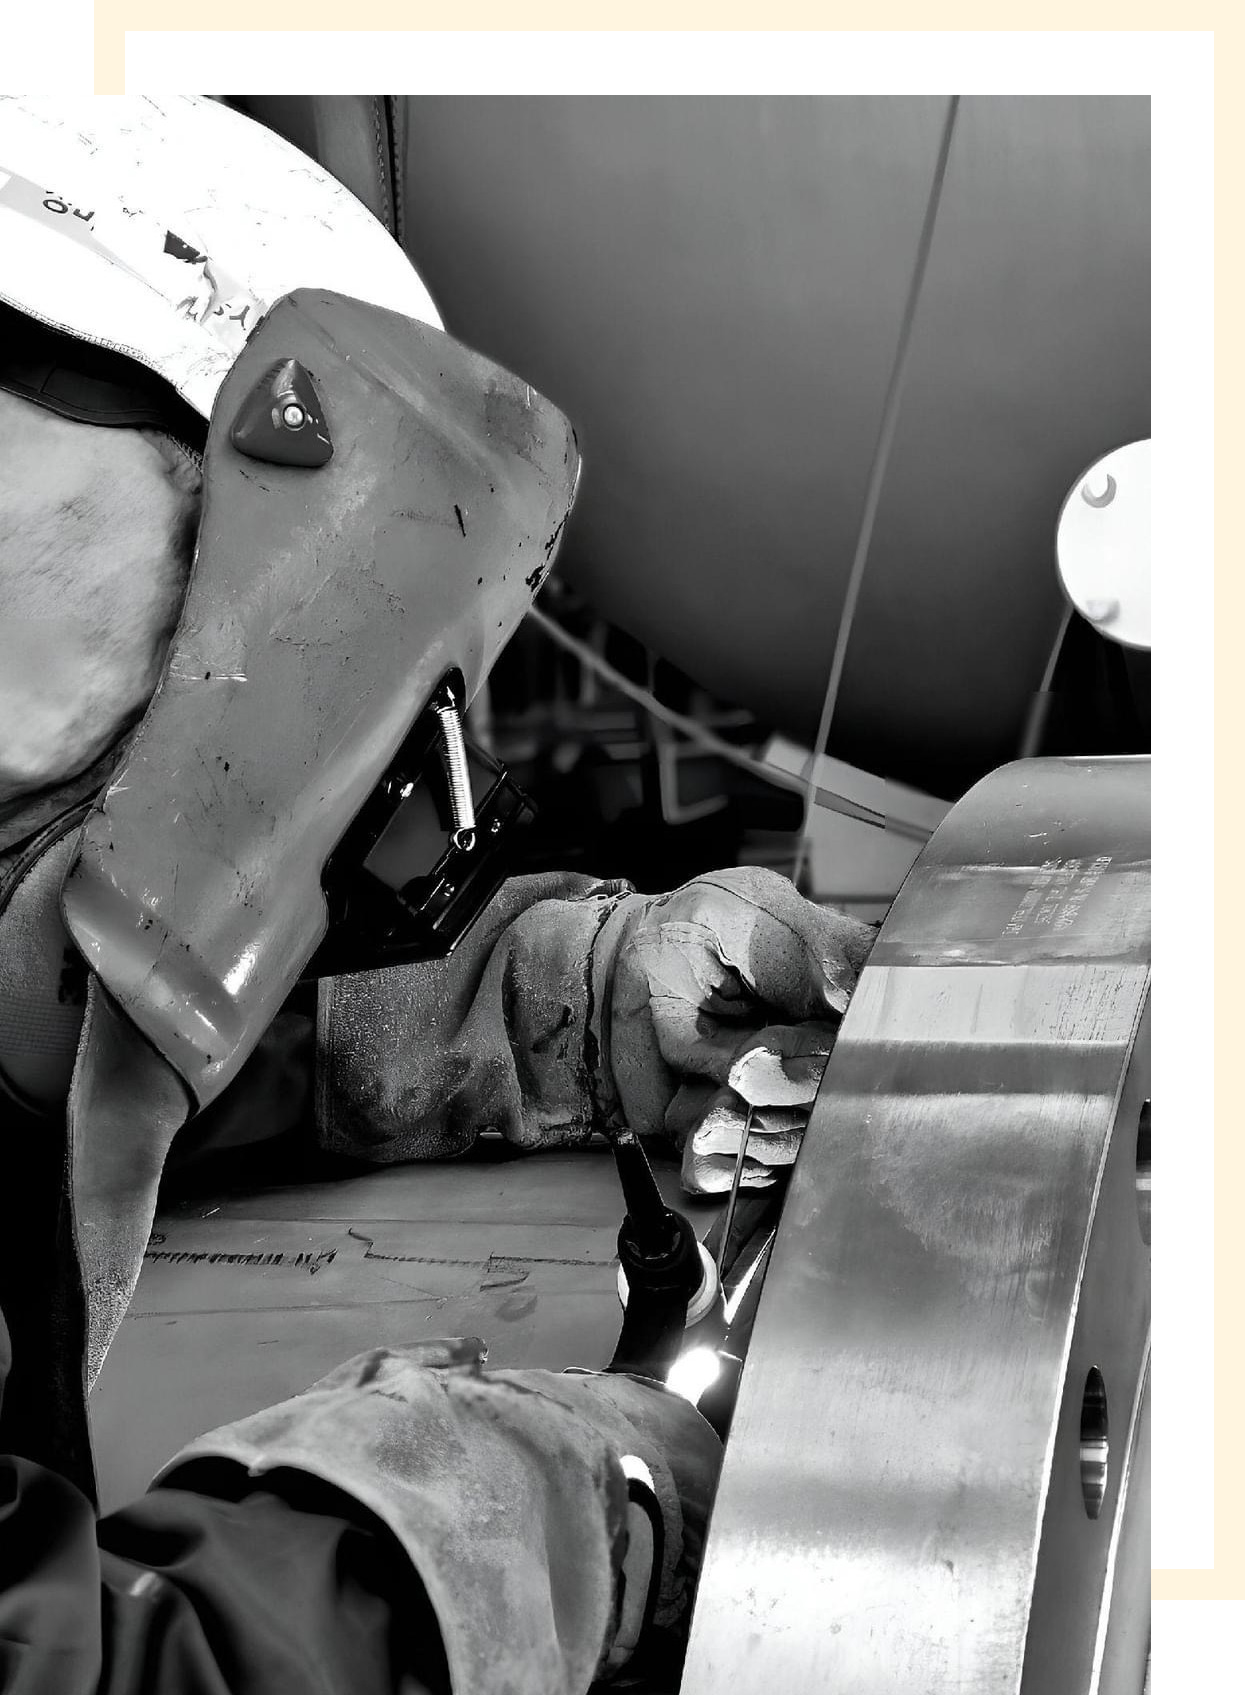
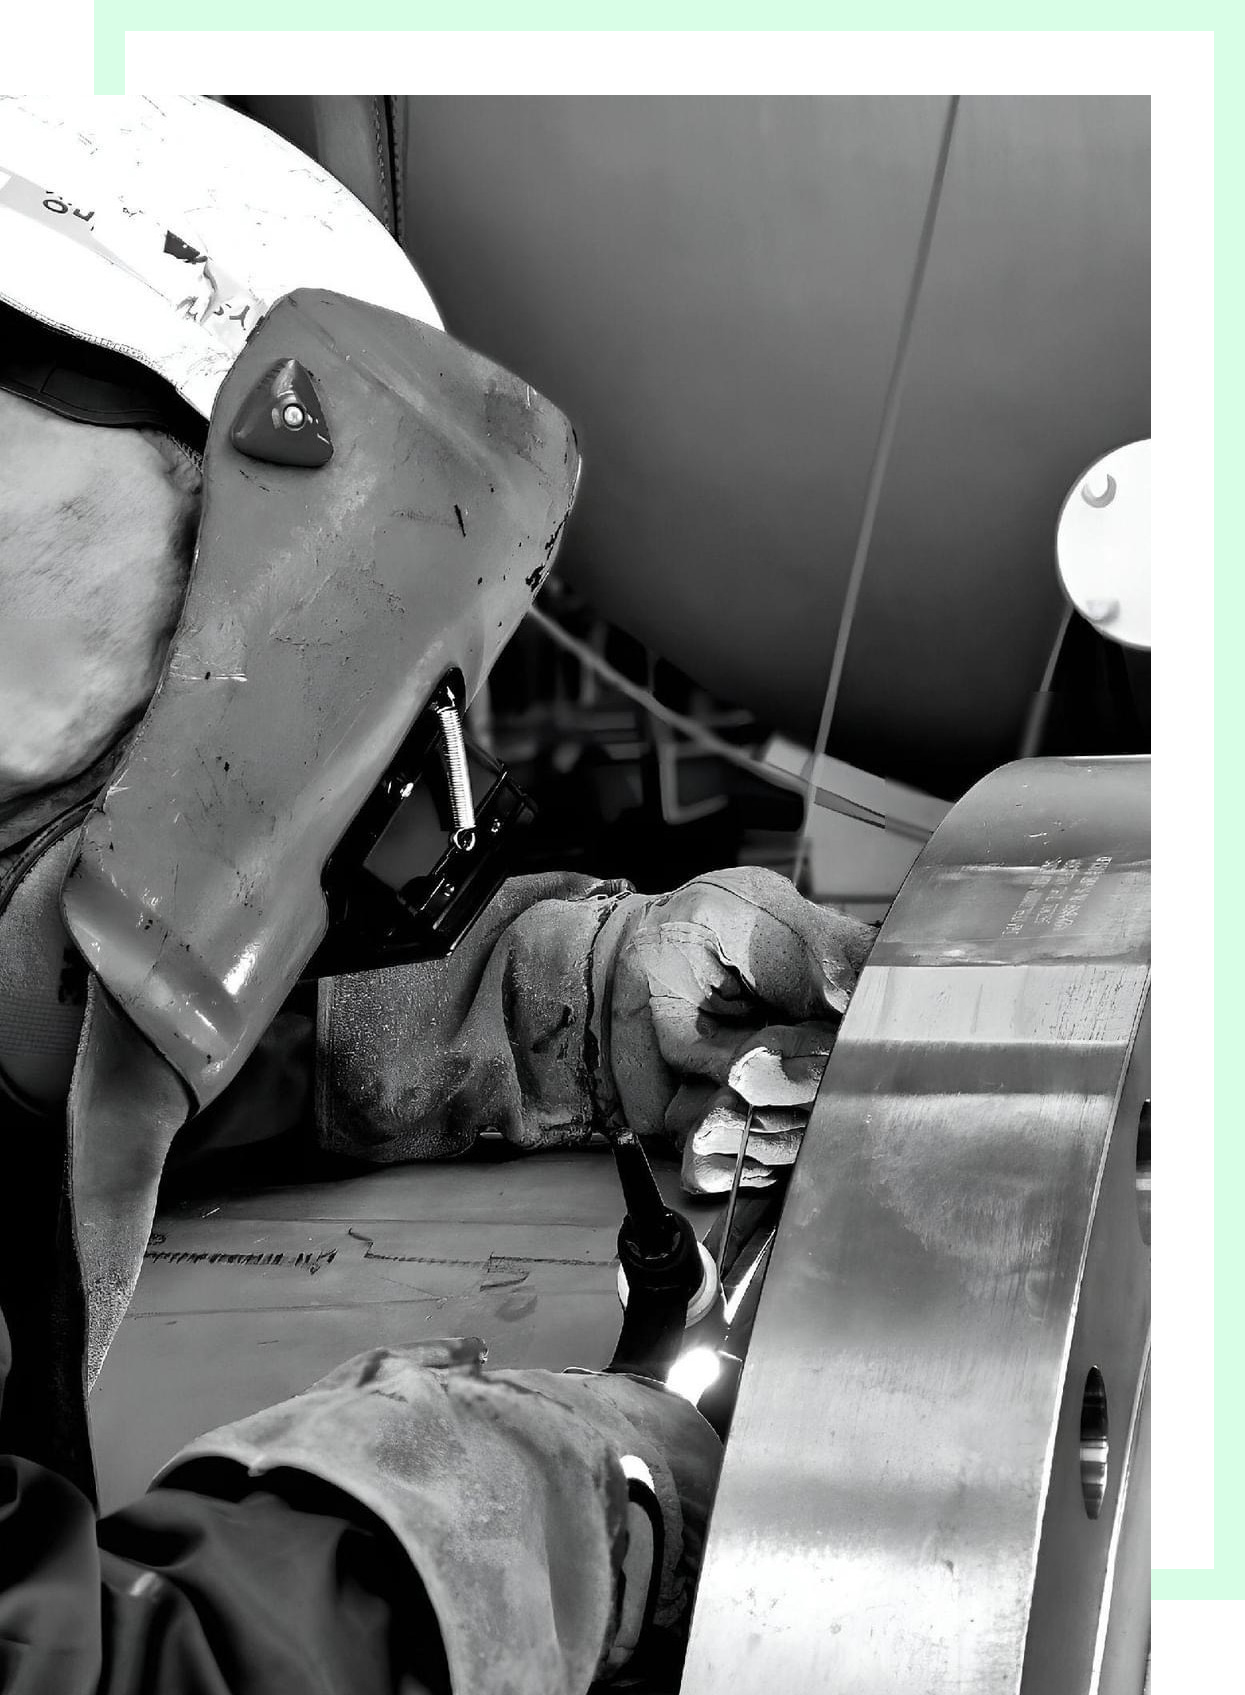
landing page done

Changed region(s): [[0.061, 0.0, 1.0, 0.951]]

diff --git a/src/app/components/AboutUs.js b/src/app/components/AboutUs.js
@@ -27,7 +27,7 @@ const AboutSection = () => {
                             <MdOutlineWaterDrop/> <h6>WHY CHOOSE US</h6>
                         </div>
                             <h2 className="text-2xl font-bold mb-3">We are a Certified and Insured Company.</h2>
-                            <p className="text-gray-600 mb-6">
+                            <p className="mb-6">
                                 Lorem ipsum dolor sit amet, consectetur adipiscing elit, sed do eiusmod tempor incididunt ut labore et dolore magna aliqua. Ut enim ad minim veniam, quis nostrud exercitation ullamco laboris nisi ut aliquip ex ea commodo consequat. Duis aute irure dolor.
                             </p>
 
@@ -55,15 +55,15 @@ const AboutSection = () => {
                             <div className="grid grid-cols-3 gap-6 mt-8 about-box">
                                 <div className="text-center">
                                     <h2 className="text-4xl font-bold text-white">567+</h2>
-                                    <p className="text-gray-600">Projects Launched</p>
+                                    <h4 className="color-secondary font-bold">Projects Launched</h4>
                                 </div>
                                 <div className="text-center">
                                     <h2 className="text-4xl font-bold text-white">116+</h2>
-                                    <p className="text-gray-600">Branch Offices</p>
+                                    <h4 className="color-secondary font-bold">Branch Offices</h4>
                                 </div>
                                 <div className="text-center">
                                     <h2 className="text-4xl font-bold text-white">482+</h2>
-                                    <p className="text-gray-600">Happy Clients</p>
+                                    <h4 className="color-secondary font-bold">Happy Clients</h4>
                                 </div>
                             </div>
                         </div>

diff --git a/src/app/globals.css b/src/app/globals.css
@@ -5,11 +5,11 @@
 :root {
   --white: #fff;
   --black: #000;
-  --primary: #ffd200;
+  --primary: #22c55e;
   --secondary:#0b2a67;
   --grey: #aab9cd;
   --services-card: #f3f3f4;
-  --card-hover: #fcf8f0;
+  --card-hover: #f0fcf2;
 }
 
 @media (prefers-color-scheme: light) {
@@ -48,6 +48,10 @@ li {
 ul {
   margin: 0 !important;
   padding: 0 !important;
+}
+
+p{
+  color: var(--black);
 }
 
 .mt-12 {
@@ -203,7 +207,7 @@ ul {
   padding: 10px 24px;
   border: 1px solid var(--primary);
   transition: 0.3s;
-  color: var(--black);
+  color: var(--white);
   font-size: 14px;
   font-weight: 600;
 }
@@ -388,6 +392,12 @@ font-size: 20px;
 
 .about-right {
   margin-left: 40px;
+}
+
+.about-right h2{
+  font-size: 35px;
+    line-height: 40px;
+    margin-block: 10px !important;
 }
 
 @media (max-width:992px) {

diff --git a/src/app/components/Service.js b/src/app/components/Service.js
@@ -50,8 +50,8 @@ const Services = () => {
             </div>
             <div className="w-full sm:w-1/2 lg:w-1/2 px-2">
               <div className="right-service-text md-mt-2">
-                <h5 className="mb-3">There are many variations of passages of Lorem Ipsum available, have suffered in form, by injected humour.</h5>
-                <p>If you are going to use a passage of Lorem Ipsum, you need to be sure anything embarrassing hidden in the middle of text.</p>
+                <p>There are many variations of passages of Lorem Ipsum available, have suffered in form, by injected humour.
+                 If you are going to use a passage of Lorem Ipsum, you need to be sure anything embarrassing hidden in the middle of text.</p>
               </div>
             </div>
           </div>

diff --git a/src/app/components/Footer.js b/src/app/components/Footer.js
@@ -6,7 +6,7 @@ import { FaArrowRight, FaEnvelope, FaMapMarker, FaPhoneAlt, } from 'react-icons/
 
 const Footer = () => {
   return (
-    <footer className="position-relative mt-12">
+    <footer className="mt-12 relative">
       <div className="footer">
         <img src={footerBg.src} className="footer-bg" alt="footer-bg" />
         <div className="container mx-auto px-15">
